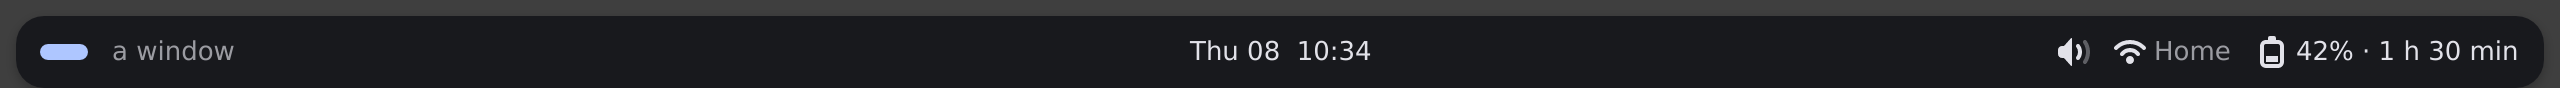
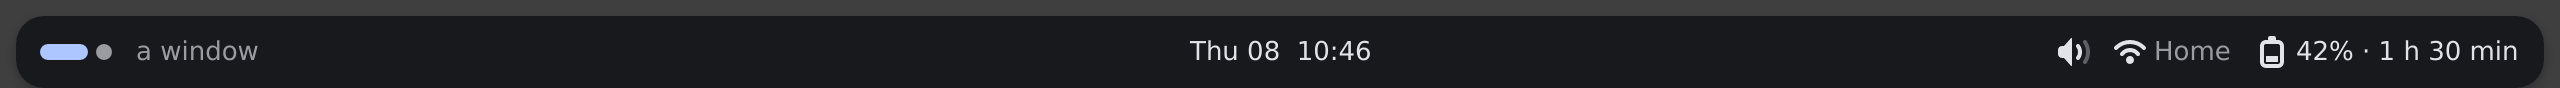
budgets: the M3 bar shot shows two workspaces (a second window on workspace 3)
In the shots-only path of full_shell (`shots.is_some()`), a second test
window opens on HEADLESS-1's workspace 3 and focus goes back to
workspace 1 before the bar is kept, so docs/images/m3-bar.png shows the
focused pill and an occupied dot (sway keeps no empty unshown workspace,
so the empty dot cannot appear). The measured runs are unchanged.
m3-bar.png and m3-shell.png re-taken with scripts/m3-shots.sh; the
launcher, toasts and OSD shots came out byte-identical.

Claude-Session: https://claude.ai/code/session_01SCALjnJD5TZDCBS4rm7dc3

Changed region(s): [[0.0312, 0.4545, 0.125, 0.6818], [0.5, 0.4773, 0.5625, 0.6364], [0.5, 0.6591, 0.5312, 0.6818]]

diff --git a/crates/strand/tests/budgets.rs b/crates/strand/tests/budgets.rs
@@ -611,6 +611,49 @@ impl Desktop {
         }
     }
 
+    /// `swaymsg` on the desktop's sway; its output.
+    fn swaymsg(&self, args: &[&str]) -> String {
+        let ipc = std::fs::read_dir(&self.dir)
+            .unwrap()
+            .flatten()
+            .map(|e| e.path())
+            .find(|p| {
+                p.file_name()
+                    .is_some_and(|n| n.to_string_lossy().starts_with("sway-ipc."))
+            })
+            .expect("sway's IPC socket");
+        let out = bounded(
+            Command::new("swaymsg").args(args).env("SWAYSOCK", ipc),
+            "swaymsg",
+        )
+        .expect("swaymsg runs");
+        assert!(out.status.success(), "swaymsg {args:?} failed");
+        String::from_utf8_lossy(&out.stdout).into_owned()
+    }
+
+    /// A second window, on HEADLESS-1's workspace 3, focus back on
+    /// workspace 1 once it is there: the bar's dots then show a focused
+    /// and an occupied workspace (sway keeps no empty workspace that is
+    /// not shown).
+    fn second_workspace(&self) -> TestWindow {
+        self.swaymsg(&["workspace", "3"]);
+        let window = TestWindow::open(
+            &self.dir.join(&self.display),
+            "strand-budgets-2",
+            "another window",
+        );
+        let deadline = Instant::now() + Duration::from_secs(10);
+        while !self
+            .swaymsg(&["-t", "get_tree"])
+            .contains("\"strand-budgets-2\"")
+        {
+            assert!(Instant::now() < deadline, "the second window never mapped");
+            std::thread::sleep(Duration::from_millis(20));
+        }
+        self.swaymsg(&["workspace", "1"]);
+        window
+    }
+
     /// One output's screenshot as RGB rows.
     fn shot(&self, output: &str) -> Option<Shot> {
         let path = self.dir.join(format!("{output}.ppm"));
@@ -1698,6 +1741,9 @@ fn full_shell(name: &str, apps: Apps, shots: Option<&Path>) {
         );
         std::thread::sleep(Duration::from_millis(50));
     }
+    // The screenshots' bar shows more than one workspace (the measured
+    // runs keep the one).
+    let _second = shots.map(|_| desk.second_workspace());
     settled(&mut desk, "the bars", limit);
     let bar = pss_kb(pid);
     let shot = |desk: &Desktop, what: &str| {
